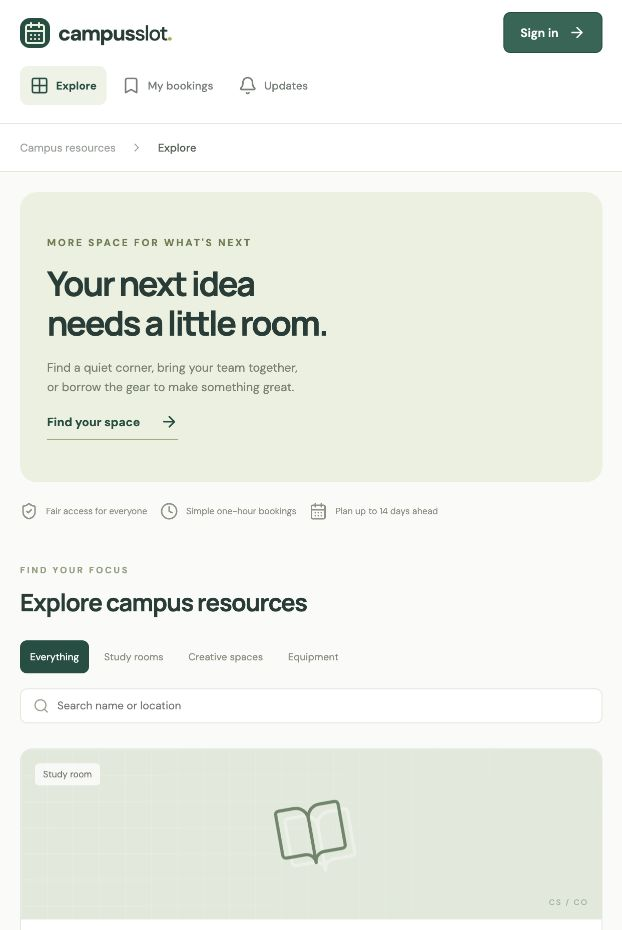
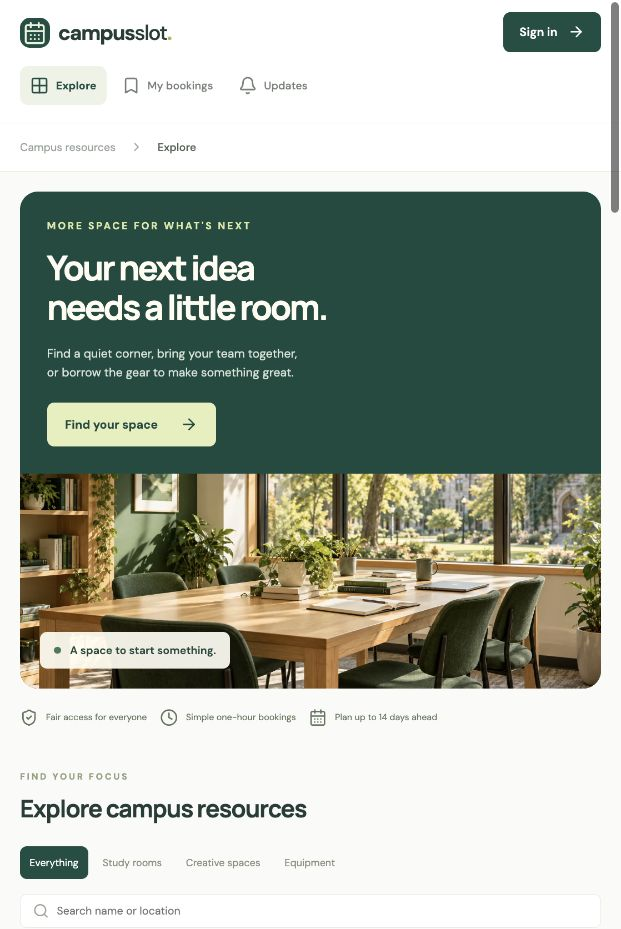
Document the verified visual refresh and update the live preview

diff --git a/docs/VERIFICATION.md b/docs/VERIFICATION.md
@@ -40,3 +40,11 @@ Browser verification on the public deployment, 24 October:
 - Reload restored the manager session; the workspace showed zero pending requests and one confirmed reservation.
 - Signed out and verified the public catalog remained accessible.
 - Screenshots: screenshots/public-live.png and screenshots/public-manager-verified.png.
+
+## Visual refresh — 24 October 2026
+- Added three AI-generated, locally hosted WebP illustrations (about 490 KB total) for spaces and equipment.
+- Replaced the pale icon-only hero with a forest-green introduction, prominent action button, and study-room image visible on mobile.
+- Production build passed; GitHub CI passed for commit `a01ee3b` ([run](https://github.com/yourfriendlyneighbourhoodprogrammer/campusslot/actions/runs/40070923873)).
+- Verified the local layout at 622 px with no horizontal overflow, corrected card image cropping, checked category filters and the availability dialog.
+- Production deployment is READY at the existing public URL; catalog loading, image rendering and category filtering were checked in the browser.
+- No browser console errors were observed during the live visual check.
